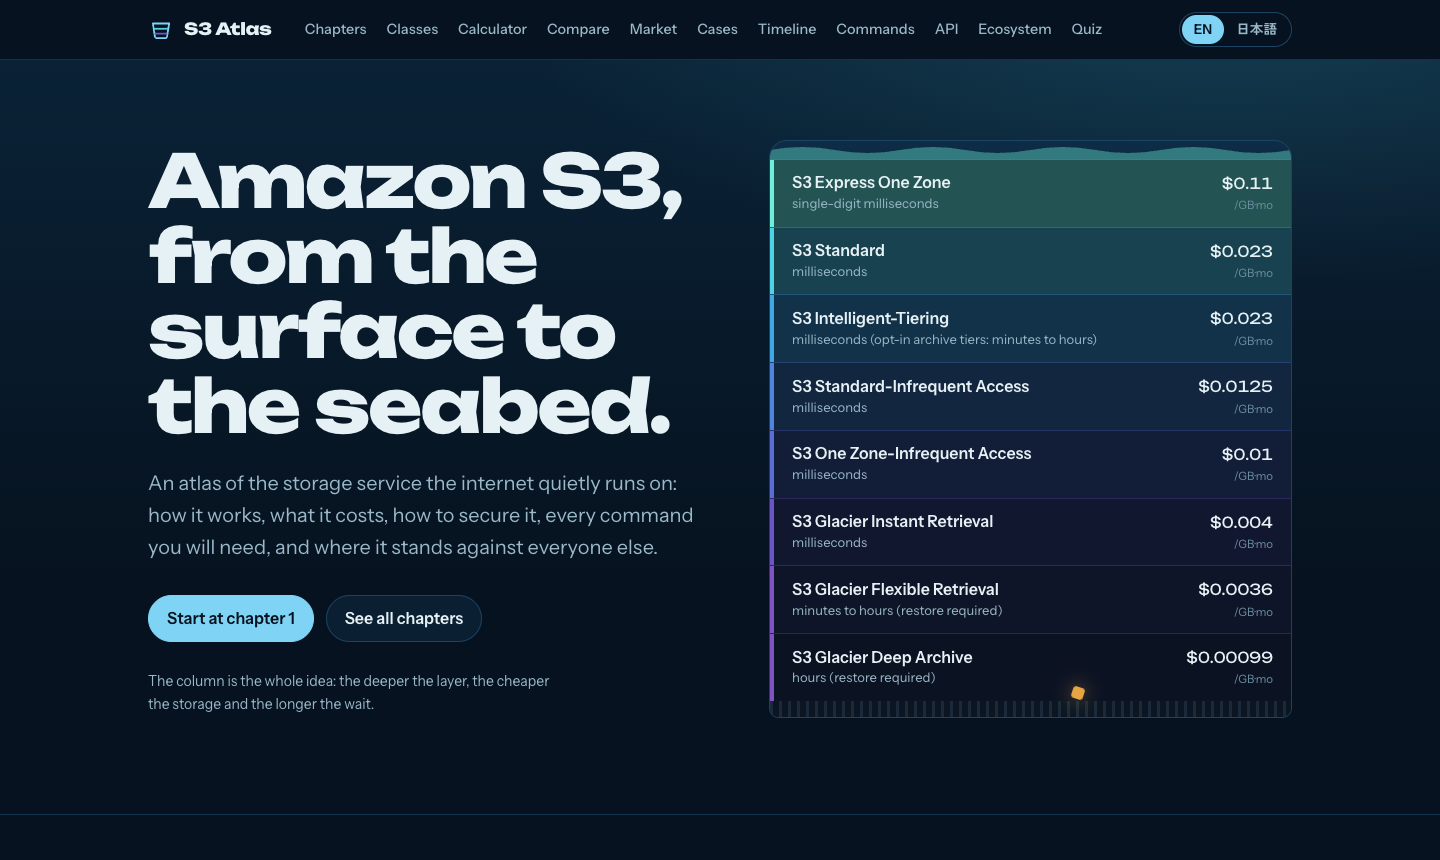
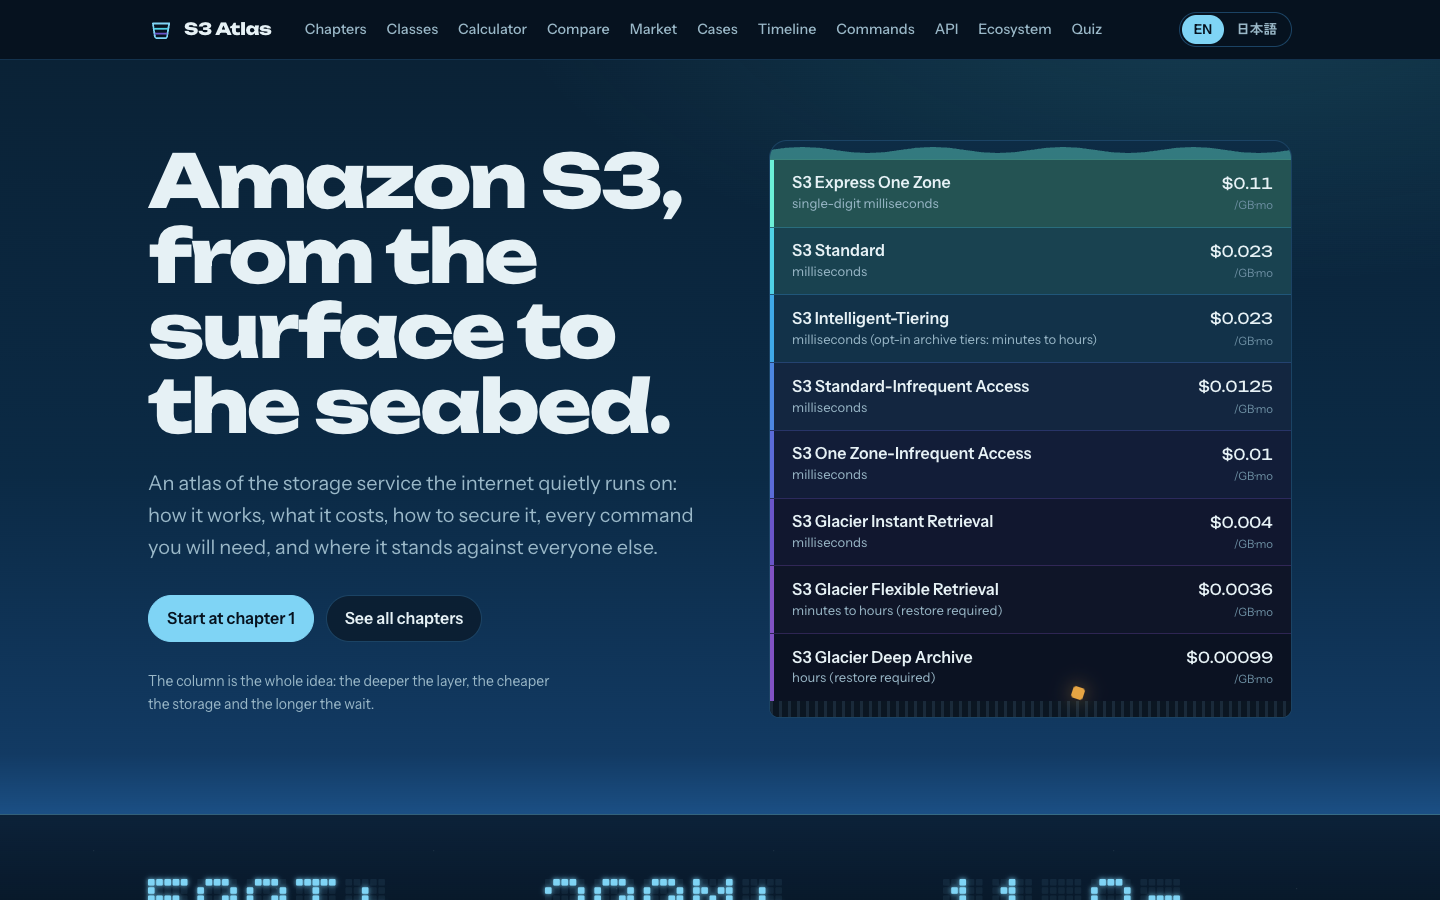
feat(design): dot-matrix readouts, lit horizon and drifting marine snow

diff --git a/src/pages/Home.tsx b/src/pages/Home.tsx
@@ -1,15 +1,39 @@
 import { lazy, Suspense, useState } from 'react';
 import { Link } from 'react-router-dom';
 import { WaterColumn } from '../components/WaterColumn';
+import { DotMatrix } from '../components/DotMatrix';
 import { CHAPTERS, GROUPS } from '../lib/chapters';
 import { columnClasses } from '../lib/data/classes';
-import { market } from '../lib/data/market';
 import { compact, num, yearsPerLoss } from '../lib/format';
 import { useLang } from '../lib/i18n';
 import { UI } from '../lib/ui';
 
 // Below-the-fold sections pull in the competitor and timeline datasets; load them after first paint.
 const HomeLower = lazy(() => import('./HomeLower'));
+
+const TWENTY_YEARS = 'https://aws.amazon.com/blogs/aws/twenty-years-of-amazon-s3-and-building-whats-next/';
+
+// Headline numbers, each from AWS's own published figures.
+const READOUT = [
+  {
+    text: '500T+',
+    label: { en: 'objects stored', ja: 'オブジェクトを保存' },
+    year: 2026,
+    source: TWENTY_YEARS,
+  },
+  {
+    text: '200M+',
+    label: { en: 'requests per second at peak', ja: 'ピーク時の毎秒リクエスト' },
+    year: 2026,
+    source: TWENTY_YEARS,
+  },
+  {
+    text: '11 9s',
+    label: { en: 'designed durability (99.999999999%)', ja: '設計上の耐久性 (99.999999999%)' },
+    year: 2026,
+    source: 'https://aws.amazon.com/s3/storage-classes/',
+  },
+] as const;
 
 const TOOLS = [
   {
@@ -126,6 +150,22 @@ export default function Home() {
         </div>
       </section>
 
+      <section className="readout" aria-label={en ? 'S3 at a glance' : 'ひと目でわかる S3'}>
+        <div className="wrap readout-grid">
+          {READOUT.map((r) => (
+            <div key={r.text} className="readout-cell">
+              <DotMatrix text={r.text} label={`${r.text} ${t(r.label)}`} />
+              <p>
+                {t(r.label)}{' '}
+                <a className="muted small" href={r.source} target="_blank" rel="noreferrer noopener">
+                  {r.year}
+                </a>
+              </p>
+            </div>
+          ))}
+        </div>
+      </section>
+
       <section className="section nines">
         <div className="wrap nines-grid">
           <div>
@@ -150,14 +190,17 @@ export default function Home() {
             </label>
           </div>
           <p className="nines-readout" aria-live="polite">
-            <span className="nines-n">{compact(objects, lang)}</span>
+            <DotMatrix className="nines-n" text={compact(objects, 'en')} label={compact(objects, lang)} />
             <span className="nines-mid">
               {en
                 ? 'objects stored. Expect to lose one about once every'
                 : '個を保存すると、1個失う期待値はおよそ'}
             </span>
             <span className="nines-y">
-              {years >= 1 ? compact(years, lang) : num(years * 365, lang, 1)}
+              <DotMatrix
+                text={years >= 1 ? compact(years, 'en') : num(years * 365, 'en', 1)}
+                label={years >= 1 ? compact(years, lang) : num(years * 365, lang, 1)}
+              />
               <small>{years >= 1 ? (en ? ' years' : ' 年に1回') : en ? ' days' : ' 日に1回'}</small>
             </span>
             <span className="nines-foot muted small">
@@ -168,27 +211,6 @@ export default function Home() {
           </p>
         </div>
       </section>
-
-      {market.s3Stats.length > 0 && (
-        <section className="section sonar">
-          <div className="wrap">
-            <h2 className="section-title">{en ? 'S3 by the numbers' : '数字で見る S3'}</h2>
-            <dl className="sonar-list">
-              {market.s3Stats.slice(0, 6).map((s, i) => (
-                <div key={i}>
-                  <dt>{t(s.label)}</dt>
-                  <dd>
-                    {t(s.value)}
-                    <a className="small muted" href={s.source} target="_blank" rel="noreferrer noopener">
-                      {s.year}
-                    </a>
-                  </dd>
-                </div>
-              ))}
-            </dl>
-          </div>
-        </section>
-      )}
 
       <section className="section">
         <div className="wrap">

diff --git a/src/components/DotMatrix.tsx b/src/components/DotMatrix.tsx
@@ -1,0 +1,74 @@
+// LED-style dot-matrix text, 5×7 cells per glyph, drawn as SVG squares.
+// Used for the few headline numbers on the page so they read like a sonar readout.
+
+const GLYPHS: Record<string, string[]> = {
+  '0': ['01110', '10001', '10011', '10101', '11001', '10001', '01110'],
+  '1': ['00100', '01100', '00100', '00100', '00100', '00100', '01110'],
+  '2': ['01110', '10001', '00001', '00010', '00100', '01000', '11111'],
+  '3': ['11110', '00001', '00001', '01110', '00001', '00001', '11110'],
+  '4': ['00010', '00110', '01010', '10010', '11111', '00010', '00010'],
+  '5': ['11111', '10000', '11110', '00001', '00001', '10001', '01110'],
+  '6': ['00110', '01000', '10000', '11110', '10001', '10001', '01110'],
+  '7': ['11111', '00001', '00010', '00100', '01000', '01000', '01000'],
+  '8': ['01110', '10001', '10001', '01110', '10001', '10001', '01110'],
+  '9': ['01110', '10001', '10001', '01111', '00001', '00010', '01100'],
+  '.': ['00000', '00000', '00000', '00000', '00000', '01100', '01100'],
+  ',': ['00000', '00000', '00000', '00000', '01100', '00100', '01000'],
+  '+': ['00000', '00100', '00100', '11111', '00100', '00100', '00000'],
+  '%': ['11001', '11010', '00010', '00100', '01000', '01011', '10011'],
+  '/': ['00001', '00010', '00010', '00100', '01000', '01000', '10000'],
+  ' ': ['00000', '00000', '00000', '00000', '00000', '00000', '00000'],
+  B: ['11110', '10001', '10001', '11110', '10001', '10001', '11110'],
+  E: ['11111', '10000', '10000', '11110', '10000', '10000', '11111'],
+  G: ['01110', '10001', '10000', '10111', '10001', '10001', '01111'],
+  K: ['10001', '10010', '10100', '11000', '10100', '10010', '10001'],
+  M: ['10001', '11011', '10101', '10101', '10001', '10001', '10001'],
+  P: ['11110', '10001', '10001', '11110', '10000', '10000', '10000'],
+  S: ['01111', '10000', '10000', '01110', '00001', '00001', '11110'],
+  T: ['11111', '00100', '00100', '00100', '00100', '00100', '00100'],
+  Y: ['10001', '10001', '01010', '00100', '00100', '00100', '00100'],
+  s: ['00000', '00000', '01111', '10000', '01110', '00001', '11110'],
+};
+
+const CELL = 4; // px per dot pitch in viewBox units
+const DOT = 3.2;
+
+export function DotMatrix({
+  text,
+  label,
+  className = '',
+}: {
+  text: string;
+  label?: string;
+  className?: string;
+}) {
+  const chars = [...text];
+  const width = chars.length * 6 * CELL - CELL;
+  const height = 7 * CELL;
+  return (
+    <svg
+      className={`dot-matrix ${className}`}
+      viewBox={`0 0 ${width} ${height}`}
+      role="img"
+      aria-label={label ?? text}
+      preserveAspectRatio="xMinYMid meet"
+    >
+      {chars.map((ch, i) => {
+        const rows = GLYPHS[ch] ?? GLYPHS[ch.toUpperCase()] ?? GLYPHS[' '];
+        return rows.map((row, y) =>
+          [...row].map((bit, x) => (
+            <rect
+              key={`${i}-${y}-${x}`}
+              x={(i * 6 + x) * CELL}
+              y={y * CELL}
+              width={DOT}
+              height={DOT}
+              rx={0.6}
+              className={bit === '1' ? 'on' : 'off'}
+            />
+          )),
+        );
+      })}
+    </svg>
+  );
+}

diff --git a/src/styles/pages.css b/src/styles/pages.css
@@ -1329,3 +1329,115 @@ html[lang='ja'] .quiz-card h2 {
 .quiz-explain strong {
   color: var(--foam);
 }
+
+/* ---------- marine snow: drifting particles behind every page ---------- */
+
+.marine-snow {
+  position: fixed;
+  inset: 0;
+  z-index: -1;
+  pointer-events: none;
+  background-image:
+    radial-gradient(1.2px 1.2px at 12% 18%, rgb(230 241 245 / 0.55), transparent 60%),
+    radial-gradient(1px 1px at 68% 32%, rgb(230 241 245 / 0.4), transparent 60%),
+    radial-gradient(1.6px 1.6px at 34% 71%, rgb(127 212 245 / 0.45), transparent 60%),
+    radial-gradient(1px 1px at 86% 84%, rgb(230 241 245 / 0.35), transparent 60%),
+    radial-gradient(1.3px 1.3px at 52% 9%, rgb(127 212 245 / 0.35), transparent 60%),
+    radial-gradient(0.9px 0.9px at 23% 52%, rgb(230 241 245 / 0.3), transparent 60%),
+    radial-gradient(1.1px 1.1px at 77% 61%, rgb(230 241 245 / 0.4), transparent 60%),
+    radial-gradient(1.4px 1.4px at 5% 92%, rgb(127 212 245 / 0.3), transparent 60%);
+  background-size: 340px 420px;
+  animation: snowfall 90s linear infinite;
+}
+
+#root {
+  position: relative;
+  isolation: isolate;
+}
+
+@keyframes snowfall {
+  from {
+    background-position: 0 0;
+  }
+
+  to {
+    background-position: 60px 840px;
+  }
+}
+
+@media (prefers-reduced-motion: reduce) {
+  .marine-snow {
+    animation: none;
+  }
+}
+
+/* hero: a lit horizon where the surface meets the column */
+.hero {
+  position: relative;
+  background:
+    radial-gradient(1200px 500px at 85% -10%, rgb(79 209 230 / 0.16), transparent 60%),
+    linear-gradient(180deg, #0a2236 0%, #0b2a45 55%, #123a63 92%, #1b4f84 100%);
+  border-bottom: 1px solid rgb(127 212 245 / 0.35);
+}
+
+/* ---------- dot-matrix readouts ---------- */
+
+.dot-matrix {
+  display: block;
+  height: 1em;
+  width: auto;
+  max-width: 100%;
+  overflow: visible;
+}
+
+.dot-matrix rect.on {
+  fill: var(--dm-on, var(--glacier));
+  filter: drop-shadow(0 0 1.2px var(--dm-on, var(--glacier)));
+}
+
+.dot-matrix rect.off {
+  fill: var(--dm-off, rgb(127 212 245 / 0.07));
+}
+
+.readout {
+  padding-block: clamp(36px, 6vw, 64px);
+  border-bottom: 1px solid var(--current-soft);
+  background: linear-gradient(180deg, rgb(27 79 132 / 0.25), transparent 70%);
+}
+
+.readout-grid {
+  display: grid;
+  grid-template-columns: repeat(auto-fit, minmax(240px, 1fr));
+  gap: 32px 48px;
+}
+
+.readout-cell .dot-matrix {
+  font-size: clamp(2.6rem, 5vw, 3.6rem);
+}
+
+.readout-cell p {
+  margin-top: 14px;
+  color: var(--kelp);
+}
+
+.nines-n.dot-matrix,
+.nines-y .dot-matrix {
+  font-size: clamp(2.6rem, 6vw, 4.2rem);
+}
+
+.nines-y {
+  display: flex;
+  align-items: flex-end;
+  gap: 12px;
+  --dm-on: var(--buoy);
+  --dm-off: rgb(255 181 71 / 0.07);
+}
+
+.nines-y small {
+  font-size: 1.1rem;
+}
+
+/* single-series bars get a depth gradient instead of a flat fill */
+.price-bar span {
+  background: linear-gradient(90deg, color-mix(in srgb, var(--layer) 25%, transparent), var(--layer));
+}

diff --git a/src/components/Layout.tsx b/src/components/Layout.tsx
@@ -59,6 +59,7 @@ export function Layout() {
       >
         {t(UI.skip)}
       </a>
+      <div className="marine-snow" aria-hidden="true" />
       <header className="site-header">
         <div className="wrap">
           <Link to="/" className="brand" aria-label="S3 Atlas home">
